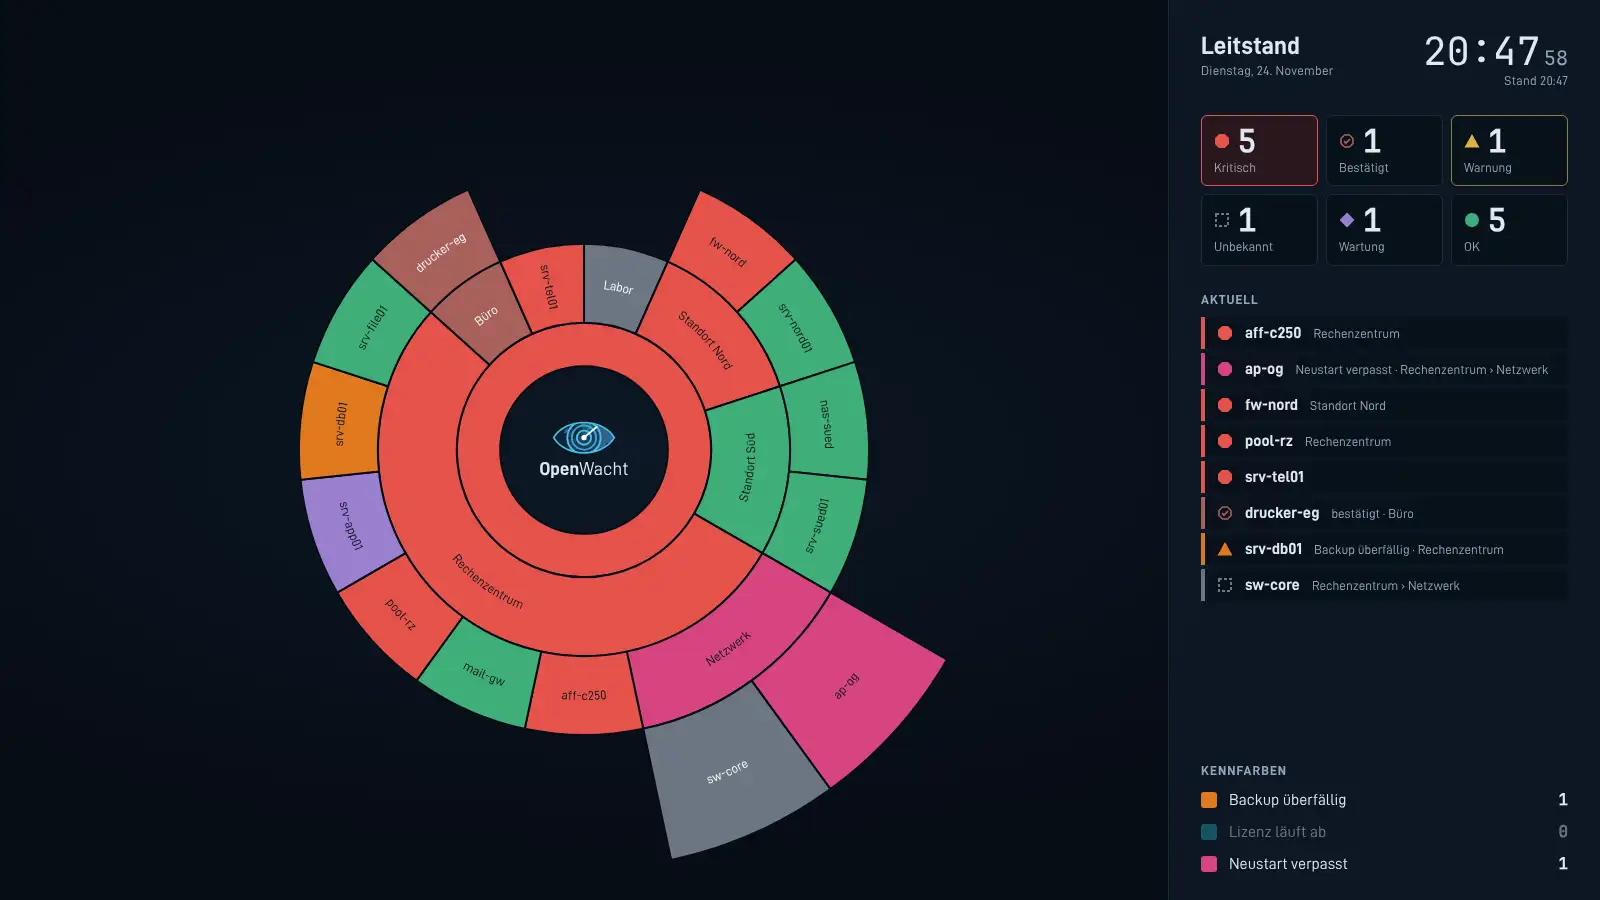
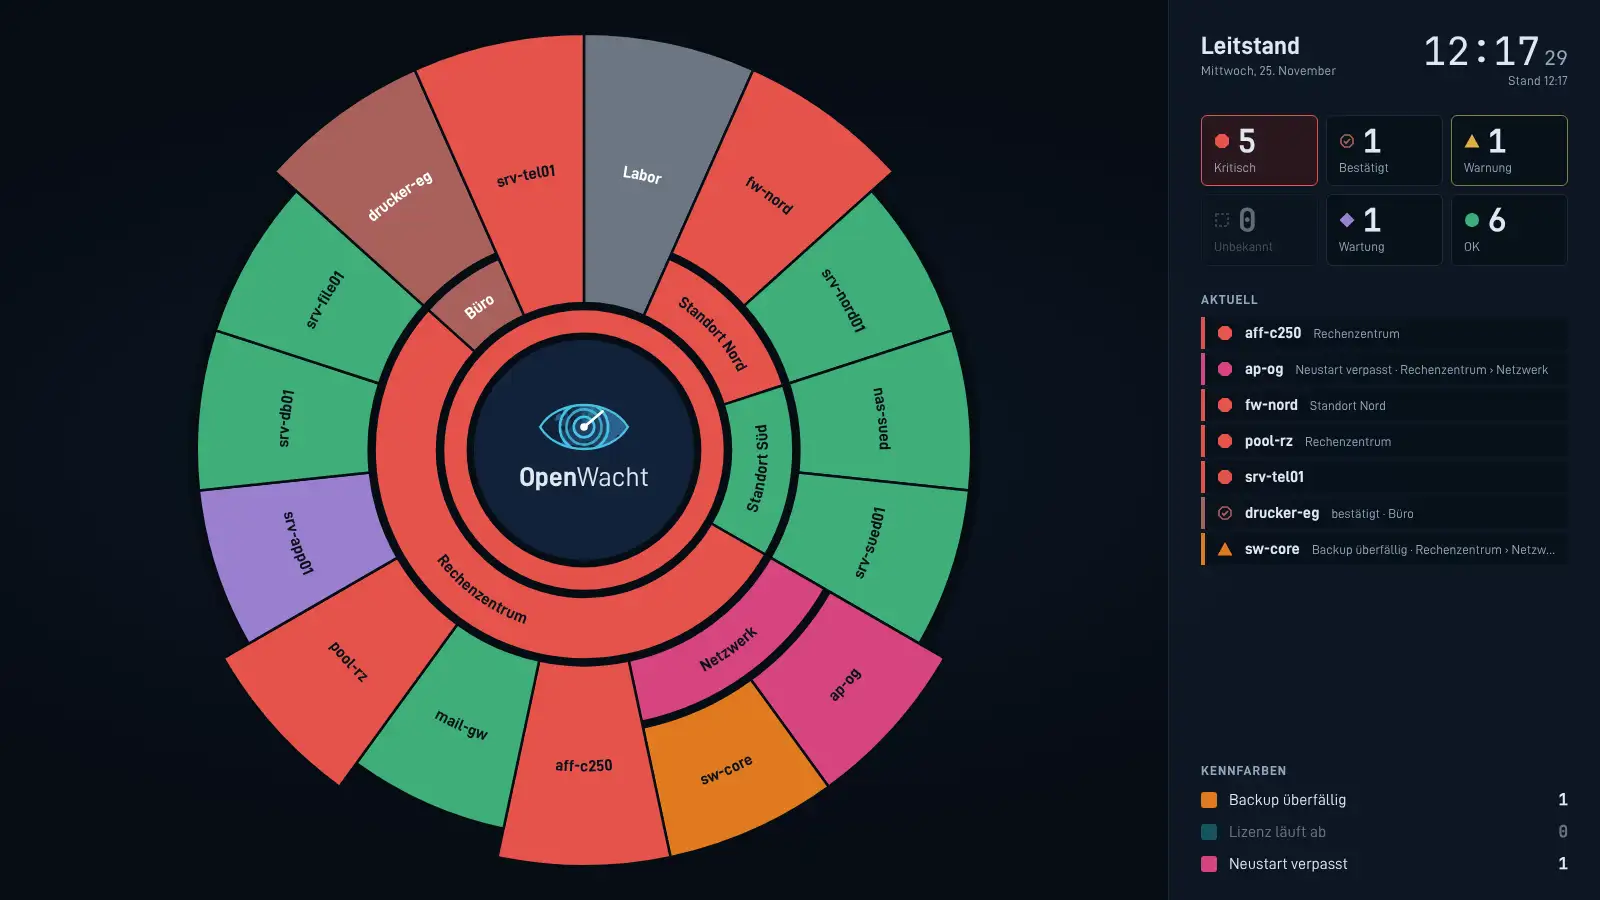
Wandanzeige im Stil der Klick-Demo
Alle Geräte enden am selben Außenrand, Geräte mit Problem treten hervor;
dunkle Fugen zwischen den Ringen, fette Schrift, dunkle Scheibe mit
größerem Zeichen in der Mitte. Bild im Handbuch neu.

diff --git a/web/src/Sonne.tsx b/web/src/Sonne.tsx
@@ -11,8 +11,15 @@ import type { AnzeigeKnoten, AnzeigeStatus } from "./api";
 import { Zeichen } from "./Zeichen";
 
 // Koordinatensystem: viewBox -500 … 500, Winkel im Bogenmaß ab 12 Uhr im Uhrzeigersinn.
+// 1.0.2 (nach der Klick-Demo): Alle Geräte enden am selben Außenrand AUSSEN;
+// Geräte mit Problem treten um VOR hervor. Zwischen den Ringen liegt eine
+// dunkle Fuge (FUGE), die Mitte ist eine dunkle Scheibe mit dem Zeichen.
 const R = 492;
-const LOCH = 0.2 * R;
+const VOR = 34;
+const AUSSEN = R - VOR;
+const LOCH = 0.27 * R;
+const FUGE = 7;
+const vortreten = new Set<AnzeigeStatus>(["warn", "crit", "quittiert", "unknown"]);
 
 export const statusText: Record<AnzeigeStatus, string> = {
   ok: "OK",
@@ -87,20 +94,30 @@ export function zerlegen(wurzel: AnzeigeKnoten): { segmente: Segment[]; tiefe: n
 // Radien der Ringe: Ring 0 (Mandant) schmal, der äußerste breiter für
 // die radial geschriebenen Gerätenamen.
 export function radien(tiefe: number): number[] {
-  const gewicht = (t: number) => (t === 0 ? 0.55 : t === tiefe && tiefe >= 2 ? 1.7 : 1);
+  const gewicht = (t: number) => (t === 0 ? 0.45 : t === tiefe && tiefe >= 2 ? 1.6 : 1);
   let summe = 0;
   for (let t = 0; t <= tiefe; t++) summe += gewicht(t);
   const r = [LOCH];
   let innen = LOCH;
   for (let t = 0; t <= tiefe; t++) {
-    innen += ((R - LOCH) * gewicht(t)) / summe;
+    innen += ((AUSSEN - LOCH) * gewicht(t)) / summe;
     r.push(innen);
   }
   return r; // Ring t liegt zwischen r[t] und r[t+1]
 }
 
 function ring(r: number[], t: number): [number, number] {
-  return [r[t] ?? LOCH, r[t + 1] ?? R];
+  return [r[t] ?? LOCH, r[t + 1] ?? AUSSEN];
+}
+
+// band: Radien eines Segments mit Fugen. Ein Gerät (Blatt) reicht immer bis
+// zum Außenrand, auch wenn es weiter innen im Baum hängt; mit Problem tritt
+// es hervor.
+export function band(r: number[], s: { tiefe: number; blatt: boolean; status: AnzeigeStatus }): [number, number] {
+  const [r0] = ring(r, s.tiefe);
+  let r1 = s.blatt ? AUSSEN : ring(r, s.tiefe)[1];
+  if (s.blatt && vortreten.has(s.status)) r1 = R;
+  return [r0 + FUGE / 2, r1 - FUGE / 2];
 }
 
 function punkt(r: number, a: number): string {
@@ -125,7 +142,7 @@ function sektor(r0: number, r1: number, a0: number, a1: number): string {
 // Beschriftung: tangential (entlang des Rings) oder radial, je nachdem, wo
 // mehr vom Namen lesbar ist. Gibt null zurück, wenn nichts Sinnvolles passt.
 const ZEICHEN = 0.56; // mittlere Zeichenbreite in em
-const MAX_SCHRIFT = 15;
+const MAX_SCHRIFT = 19;
 const MIN_SCHRIFT = 6.5;
 
 export interface Beschriftung {
@@ -186,21 +203,24 @@ export function Sonne(props: { baum: AnzeigeKnoten; neu: Set<string>; titel: str
   const wurzel = props.baum;
   const wStil = segmentStil(wurzel.farbe);
 
+  const [w0, w1] = ring(r, 0);
   return (
     <svg className="sonne" viewBox="-500 -500 1000 1000" role="img" aria-label={props.titel}>
       <title>{props.titel}</title>
+      <circle className="sonne-grund" cx="0" cy="0" r={AUSSEN + FUGE} />
+      <circle className="sonne-scheibe" cx="0" cy="0" r={LOCH - FUGE / 2} />
       <path
         className={`sonne-seg sonne-${wurzel.status}${wStil.kenn}`}
         style={wStil.style}
-        d={sektor(...ring(r, 0), 0, 2 * Math.PI)}
+        d={sektor(w0 + FUGE / 2, w1 - FUGE / 2, 0, 2 * Math.PI)}
         fillRule="evenodd"
       >
         <title>{`${wurzel.name}: ${statusText[wurzel.status]}${wurzel.kennfarbe ? ` · ${wurzel.kennfarbe}` : ""}`}</title>
       </path>
       {props.mitte === "marke" ? (
         <g aria-hidden="true">
-          <Zeichen x={-38} y={-36} width={76} height={43} />
-          <text className="sonne-mitte sonne-wortmarke" x="0" y="24" textAnchor="middle" dominantBaseline="middle">
+          <Zeichen x={-55} y={-58} width={110} height={62} />
+          <text className="sonne-mitte sonne-wortmarke" x="0" y="34" textAnchor="middle" dominantBaseline="middle">
             <tspan className="sonne-wortmarke-open">Open</tspan>Wacht
           </text>
         </g>
@@ -210,7 +230,7 @@ export function Sonne(props: { baum: AnzeigeKnoten; neu: Set<string>; titel: str
         </text>
       )}
       {segmente.map((s, i) => {
-        const [r0, r1] = ring(r, s.tiefe);
+        const [r0, r1] = band(r, s);
         const neu = props.neu.has(s.schluessel);
         const st = segmentStil(s.farbe);
         return (
@@ -227,7 +247,7 @@ export function Sonne(props: { baum: AnzeigeKnoten; neu: Set<string>; titel: str
       })}
       <g className="sonne-texte" aria-hidden="true">
         {segmente.map((s, i) => {
-          const [r0, r1] = ring(r, s.tiefe);
+          const [r0, r1] = band(r, s);
           const b = beschriftung(s.name, r0, r1, s.a0, s.a1);
           if (!b) return null;
           const mitte = (r0 + r1) / 2;

diff --git a/web/src/styles.css b/web/src/styles.css
@@ -2194,7 +2194,16 @@ button.sparkzeile-knopf:hover,
 }
 
 .wand .sonne-seg {
-  stroke-width: 2;
+  stroke-width: 2.5;
+}
+
+/* 1.0.2: dunkler Grund hinter der Sonne (zeigt die Fugen zwischen den Ringen)
+   und eine dunkle Scheibe in der Mitte, wie in der Klick-Demo. */
+.sonne-grund {
+  fill: var(--wand-fuge);
+}
+.sonne-scheibe {
+  fill: var(--wand-scheibe);
 }
 
 .sonne-seg.kenn {
@@ -2210,6 +2219,7 @@ button.sparkzeile-knopf:hover,
 
 .sonne-text {
   fill: var(--wand-text-dunkel);
+  font-weight: 700;
 }
 .sonne-text-quittiert,
 .sonne-text-unknown {
@@ -2230,7 +2240,7 @@ button.sparkzeile-knopf:hover,
 
 /* Wortmarke in der Mitte der Wandanzeige: „Open“ fett, „Wacht“ normal. */
 .sonne-wortmarke {
-  font-size: 22px;
+  font-size: 32px;
   font-weight: 400;
 }
 

diff --git a/web/src/tokens.css b/web/src/tokens.css
@@ -181,14 +181,17 @@
   --wand-best: #a8615c;
   --wand-unbek: #6c7682;
   --wand-wartung: #9a7fd0;
+  --wand-scheibe: #102238; /* Mitte der Sonne: Nachtblau des Corporate Designs */
 }
 
 /* Als Widget im Dashboard: Fugen und Mitte passend zur Fläche. */
 .sonne {
   --wand-fuge: var(--flaeche);
   --wand-mitte: var(--tinte);
+  --wand-scheibe: var(--flaeche);
 }
 .wand .sonne {
   --wand-fuge: var(--wand-grund);
   --wand-mitte: var(--wand-tinte);
+  --wand-scheibe: #102238;
 }
